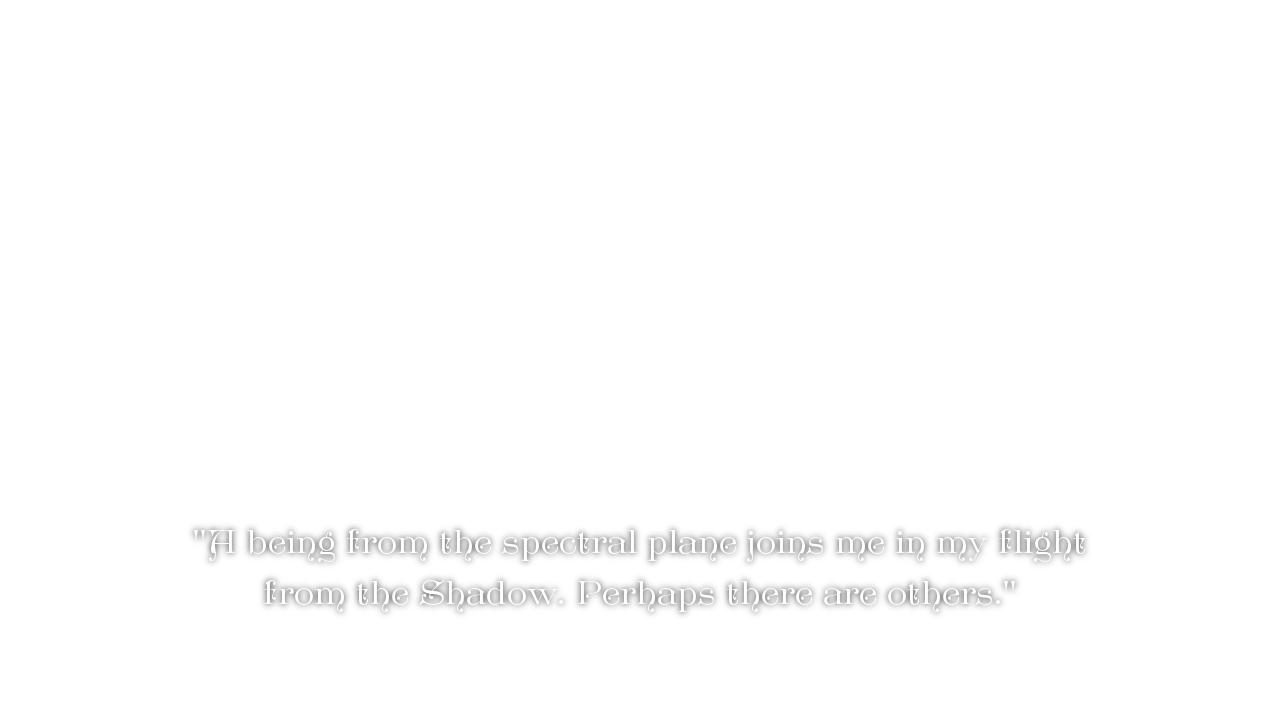
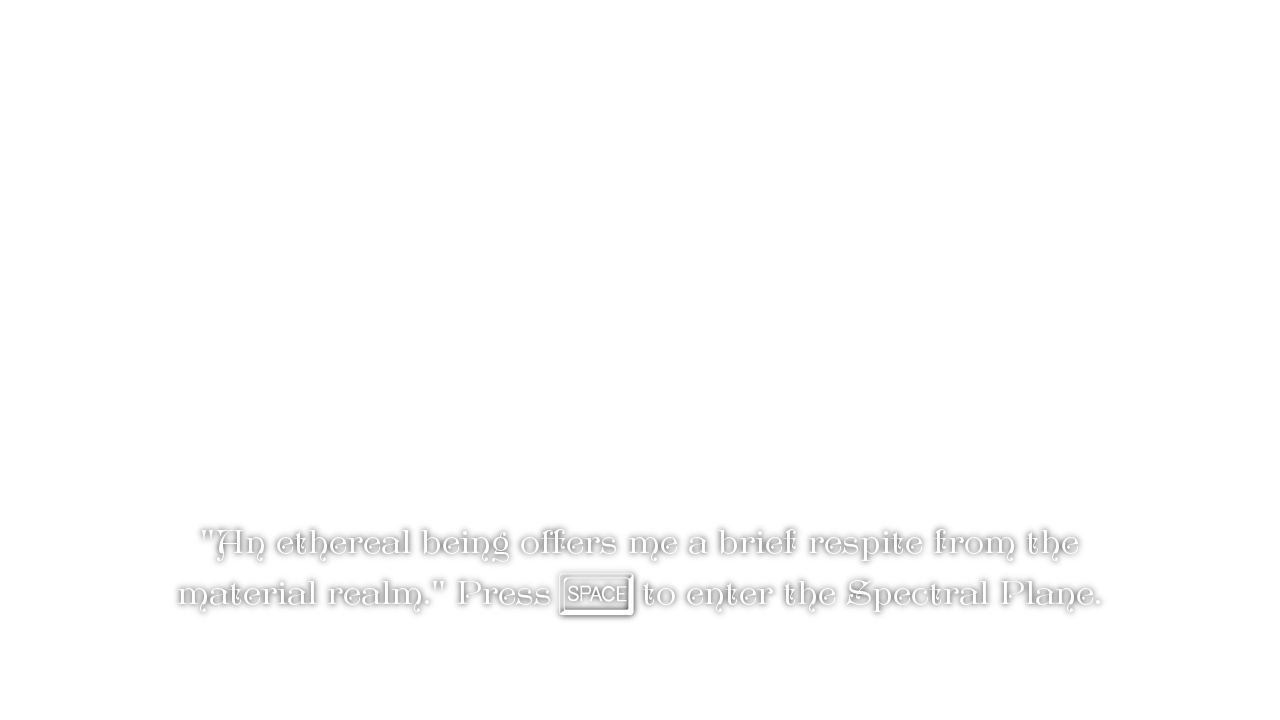
Improved spectral plane mechanic.

Changed region(s): [[0.125, 0.7333, 0.875, 0.8861]]

diff --git a/public_html/js/ChapterOne.js b/public_html/js/ChapterOne.js
@@ -5,8 +5,9 @@ OrangeSea.ChapterOne.prototype = {
   render: function() {
     if (OrangeSea.debug) {
       this.game.debug.text(this.time.fps || '--', 2, 15, "#ffffff");
-      //this.game.debug.text(this.balloon.y, 2, 30, "#ffffff");
       this.game.debug.text(this.timer.ms/1000, 2, 30, "#ffffff");
+      this.game.debug.text(this.boost.x, 2, 45, "#ffffff");
+      this.game.debug.text(this.boost.body.enable, 2, 60, "#ffffff");
       //this.game.debug.text(gyro.getOrientation().gamma, 2, 45, "#ffffff");
       // this.game.debug.text(this.perfTimeElapsed, 2, 45, "#ffffff");
       //this.game.debug.body(this.boost);
@@ -59,8 +60,8 @@ OrangeSea.ChapterOne.prototype = {
     this.spectralPlane = null;
     this.spectralPlaneSound = null;
     this.inSpectralPlane = false;
+    this.foundSpecter = false;
     this.specterReady = false;
-    this.specterCount = 0;
     this.desaturation = null;
     this.textGroup = null;
     this.chapterTitle = null;
@@ -109,6 +110,24 @@ OrangeSea.ChapterOne.prototype = {
     this.lightning.anchor.setTo(0.5, 0);
     this.lightning.alpha = 0.0;
 
+    //derelict
+    this.derelict = this.add.sprite(this.camera.width*10, this.camera.height*0.15, 'derelict');
+    this.derelict.anchor.setTo(0.5, 0.1);
+    this.derelict.scale.setTo(0.75, 0.75);
+    this.derelict.angle = 4;
+    this.physics.arcade.enable(this.derelict);
+    this.derelict.body.allowGravity = false;
+    this.derelict.body.velocity.x = -100;
+    //derelict swaying
+    this.updateFunctions.push(function(game) {
+      if (game.derelict.body.rotation >= 0) {
+        game.derelict.body.angularAcceleration = -20;
+      } else {
+        game.derelict.body.angularAcceleration = 20;
+      }
+    });
+    this.add.tween(this.derelict).to( { y: this.derelict.y + 25 }, 2000, Phaser.Easing.Sinusoidal.InOut, true, 0, -1, true);
+
     //back clouds
     var cloudTileImage = this.cache.getImage('cloudTile');
     this.backClouds = this.add.tileSprite(0, 125, cloudTileImage.width, cloudTileImage.height, 'cloudTile');
@@ -151,28 +170,10 @@ OrangeSea.ChapterOne.prototype = {
     this.waveTiles[1].anchor.setTo(0.5, 0);
     this.waveTiles[1].alpha = 0.9;
 
-
-    //derelict
-    this.derelict = this.add.sprite(this.camera.width*10, -this.camera.height*0.1, 'derelict');
-    this.derelict.anchor.setTo(0.5, 0.1);
-    this.derelict.angle = 4;
-    this.physics.arcade.enable(this.derelict);
-    this.derelict.body.allowGravity = false;
-    this.derelict.body.velocity.x = -100;
-    //derelict swaying
-    this.updateFunctions.push(function(game) {
-      if (game.derelict.body.rotation >= 0) {
-        game.derelict.body.angularAcceleration = -20;
-      } else {
-        game.derelict.body.angularAcceleration = 20;
-      }
-    });
-    this.add.tween(this.derelict).to( { y: this.derelict.y + 100 }, 2000, Phaser.Easing.Sinusoidal.InOut, true, 0, -1, true);
-
     //boost
     this.boostSound = this.add.audio('boostSound');
     this.spectralPlaneSound = this.add.audio('spectralPlaneSound');
-    this.boost = this.add.sprite(-5000, -100, 'boost');
+    this.boost = this.add.sprite(-10000, -100, 'boost');
     var boostChild = this.add.sprite(0, 0, 'boost');
     boostChild.scale.setTo(1.5, 1.5);
     boostChild.alpha = 0.25;
@@ -192,9 +193,8 @@ OrangeSea.ChapterOne.prototype = {
     boostChild2.body.angularVelocity = 50;
 
     this.boost.anchor.setTo(0.47, 0.58);
-    this.add.tween(this.boost).to( { alpha: 0.75 }, 500, Phaser.Easing.Sinusoidal.InOut, true, 0, -1, true);
     this.add.tween(this.boost.scale).to( { x: 1.1, y: 1.1 }, 500, Phaser.Easing.Sinusoidal.InOut, true, 0, -1, true);
-    this.add.tween(this.boost).to( { y: this.camera.height*0.8 }, 3000, Phaser.Easing.Sinusoidal.InOut, true, 0, -1, true);
+    this.boostYTween = this.add.tween(this.boost).to( { y: this.camera.height*0.8 }, 3000, Phaser.Easing.Sinusoidal.InOut, true, 0, -1, true);
     this.physics.arcade.enable(this.boost);
 
     this.boost.body.allowGravity = false;
@@ -202,41 +202,35 @@ OrangeSea.ChapterOne.prototype = {
     this.boost.body.setSize(this.boost.body.width*scale, this.boost.body.height*scale,
       (this.boost.body.width-this.boost.body.width*scale)/2,
       (this.boost.body.height-this.boost.body.height*scale)/2);
-    this.boost.body.velocity.x = 150;
+    this.BOOST_SPEED = 300;
+    this.boost.body.velocity.x = this.BOOST_SPEED;
     this.boost.body.angularVelocity = 50;
     this.updateFunctions.push(function(game) {
-      if (game.physics.arcade.intersects(game.balloon.body, game.boost.body)) {
-        if (game.specterCount == 0) {
+      if (game.inSpectralPlane) {
+        game.boost.x = game.balloon.x-5;
+        game.boost.y = game.balloon.y+5;
+      } else if (game.physics.arcade.intersects(game.balloon.body, game.boost.body) && game.boost.body.enable) {
+        if (!game.foundSpecter) {
           game.displaySpeech('speech1');
+          game.foundSpecter = true;
         }
-        game.specterCount++;
         if (!game.specterReady) {
-          if (game.specterCount % 3 == 0) {
-            game.specterReady = true;
-            game.displaySpeech('spectralPlaneText');
-            game.balloonGlowTween.stop();
-            game.balloonGlow.alpha = 0;
-            game.balloonGlowTween = game.add.tween(game.balloonGlow).to( { alpha: 0.6 }, 250, Phaser.Easing.Sinusoidal.InOut, true, 0, -1, true);
-          } else {
-            if (game.specterCount % 3 == 1) {
-              game.balloonGlowTween = game.add.tween(game.balloonGlow).to( { alpha: 0.6 }, 1000, Phaser.Easing.Sinusoidal.InOut, true, 0, -1, true);
-            } else if (game.specterCount % 3 == 2) {
-              game.balloonGlowTween.stop();
-              game.balloonGlow.alpha = 0;
-              game.balloonGlowTween = game.add.tween(game.balloonGlow).to( { alpha: 0.6 }, 500, Phaser.Easing.Sinusoidal.InOut, true, 0, -1, true);
-            }
-          }
+          game.specterReady = true;
+          game.balloonGlow.alpha = 0;
+          game.balloonGlowTween = game.add.tween(game.balloonGlow).to( { alpha: 0.6 }, 250, Phaser.Easing.Sinusoidal.InOut, true, 0, -1, true);
         }
-        game.boost.x = -2000+Math.random()*-1000;
-        if (game.balloon.x < game.camera.width*0.75) { //only boost if if won't push balloon off screen
+        game.add.tween(game.boost).to( { alpha: 0 }, 100, Phaser.Easing.Linear.None, true, 0, 0);
+        game.add.tween(game.boost.body.velocity).to( { x: 0 }, 100, Phaser.Easing.Linear.None, true, 0, 0);
+        game.boost.body.enable = false;
+        if (game.balloon.x < game.camera.width*0.8) { //only boost if if won't push balloon off screen
           game.add.tween(game.balloon.body.velocity).to( { x: game.MAX_SPEED }, 100, Phaser.Easing.Sinusoidal.InOut, true, 0, 0);
           game.balloon.body.acceleration.x = game.ACCELERATION;
         }
         if (!game.boostSound.isPlaying) {
           game.boostSound.play(null, null, 0.5);
         }
-      } else if (game.boost.x > game.camera.width*2) {
-        game.boost.x = -1000+Math.random()*-500;
+      } else if (game.boost.x > game.camera.width*1.5) { //only happens if you miss it
+        game.boost.x = -5000+Math.random()*-5000;
       }
     });
 
@@ -380,10 +374,10 @@ OrangeSea.ChapterOne.prototype = {
     var secondsBetweenClouds = 5;
     var cloudStartTime = 15;
     var minInterval = 0.5;
-    var numStormClouds = 275;
+    var numStormClouds = 325;
     for (var i=0; i<numStormClouds; i++) {
       if (secondsBetweenClouds > minInterval) {
-        secondsBetweenClouds -= 0.25; //gradually increase frequency until 1.0 cloud/sec
+        secondsBetweenClouds -= 0.5; //gradually increase frequency until 1.0 cloud/sec
       } else if (secondsBetweenClouds != minInterval) {
         secondsBetweenClouds = minInterval;
       }
@@ -467,18 +461,33 @@ OrangeSea.ChapterOne.prototype = {
   enterSpectralPlane: function() {
     if (this.specterReady && !this.inSpectralPlane) {
       this.balloonGlowTween.stop();
-      this.balloonGlow.alpha = 0;
       this.inSpectralPlane = true;
       this.specterReady = false;
-      this.balloon.blendMode = PIXI.blendModes.ADD;
-      this.add.tween(this.spectralPlane).to( { alpha: 1 }, 1000, Phaser.Easing.Sinusoidal.InOut, true);
+      this.add.tween(this.balloon).to( { alpha: 0.4 }, 500, Phaser.Easing.Sinusoidal.InOut, true);
+      this.add.tween(this.stormCloudGroup).to( { alpha: 0.6 }, 1000, Phaser.Easing.Sinusoidal.InOut, true);
+      this.add.tween(this.balloonGlow).to( { alpha: 0.9 }, 500, Phaser.Easing.Sinusoidal.InOut, true);
+      this.add.tween(this.boost).to( { alpha: 1.0 }, 500, Phaser.Easing.Linear.None, true); //use boost as balloon "glow" while in spectral plane
+      this.boostYTween.pause();
+      this.add.tween(this.spectralPlane).to( { alpha: 0.5 }, 1000, Phaser.Easing.Sinusoidal.InOut, true);
       if (!this.spectralPlaneSound.isPlaying) {
         this.spectralPlaneSound.play(null, null, 0.5);
       }
       this.timer.add(7*Phaser.Timer.SECOND, function() {
-        this.add.tween(this.spectralPlane).to( { alpha: 0 }, 1000, Phaser.Easing.Sinusoidal.InOut, true);
         this.inSpectralPlane = false;
-        this.balloon.blendMode = PIXI.blendModes.NORMAL;
+        this.add.tween(this.balloon).to( { alpha: 1.0 }, 500, Phaser.Easing.Sinusoidal.InOut, true);
+        this.add.tween(this.stormCloudGroup).to( { alpha: 1.0 }, 1000, Phaser.Easing.Sinusoidal.InOut, true);
+        this.add.tween(this.balloonGlow).to( { alpha: 0 }, 500, Phaser.Easing.Sinusoidal.InOut, true);
+        this.add.tween(this.boost).to( { alpha: 0.0 }, 100, Phaser.Easing.Linear.None, true); //use boost as balloon "glow" while in spectral plane
+        this.add.tween(this.spectralPlane).to( { alpha: 0 }, 1000, Phaser.Easing.Sinusoidal.InOut, true);
+        //after leaving spectral plane, time next specter
+        var randSeconds = Math.random()*60; //between 0 and 60 seconds
+        this.timer.add(randSeconds*Phaser.Timer.SECOND, function() {
+          this.boostYTween.resume();
+          this.boost.x = -100;
+          this.boost.alpha = 1.0;
+          this.boost.body.velocity.x = this.BOOST_SPEED;
+          this.boost.body.enable = true;
+        }, this);
       }, this);
     }
   },

diff --git a/public_html/js/Preloader.js b/public_html/js/Preloader.js
@@ -50,7 +50,6 @@ OrangeSea.Preloader.prototype = {
     this.load.image('speech0', 'assets/text/speech0.png');
     this.load.image('speech1', 'assets/text/speech1.png');
     this.load.image('controls', 'assets/text/controls.png');
-    this.load.image('spectralPlaneText', 'assets/text/spectralPlaneText.png');
     this.load.image('lostAtSea', 'assets/text/lostAtSea.png');
     this.load.image('lostInGloom', 'assets/text/lostInGloom.png');
     this.load.image('thanks', 'assets/text/thanks.png');

diff --git a/README.md b/README.md
@@ -4,10 +4,7 @@ An HTML5 game written in JavaScript using the [Phaser](http://phaser.io) library
 
 ## Todo
 
-* After 3 specters, balloon starts flashing, "Press SPACE to enter the spectral plane"
-    * balloon becomes ghostly, spooky hum plays, no collisions occur
-    * last 10 seconds or so
-    * can make the game more difficult with this powerup
+* Add something to collect
 * Design good and bad "encounters" to be used throughout Chapters
     * Good
         * goodies - blunderbuss, weight (slower balloon, less effected by wind)
